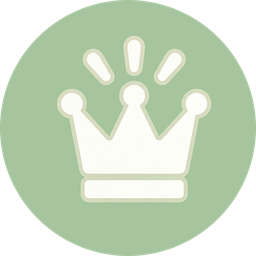
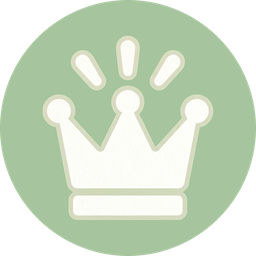
review: drop raw specks before sizing the glyph, so cond_inspired matches the set
rework_ui_icons sizes and centres a glyph by its bounding box. Gemini's 1024px prints carry a few stray paper-texture dots on the disc, and in inspired_crown_rays_1 they stretched that box, so the shipped crown came out at 65% of the frame instead of the set's 72% and sat 6px right and 8px high (10 of the 14 candidates were affected; the shrouded pick was not). generate_condition_icons_gemini.finish now drops glyph blobs under 0.02% of the frame before rework, the candidates were refinished from the saved raw images with --rework-only (no API calls), and cond_inspired.png is the refinished crown_rays_1. icons_r3_test now checks each glyph is 72% and centred, which fails on the old crown and passes on the new one. The script also no longer needs GEMINI_API_KEY for --pick, --contact, --rework-only or --list, and its docstring no longer claims Gemini has no seed parameter.

Changed region(s): [[0.1562, 0.125, 0.8438, 0.875]]

diff --git a/tfa-simultaneous-gemini-1/tools/generate_condition_icons_gemini.py b/tfa-simultaneous-gemini-1/tools/generate_condition_icons_gemini.py
@@ -12,9 +12,10 @@ This script runs both passes for conditions that do not have art yet, but makes
 several candidates per condition (a few symbol ideas, a few samples of each) so
 one can be picked by eye, and snaps the disc to the exact colour the existing
 icons of that category use, measured from the set itself. Nothing is written
-into "UI/UI Icons" until a candidate is picked with --pick. Gemini does not
-take a seed, so a rerun gives new candidates, not the same pixels; the raw
-images in <out>/raw are the record.
+into "UI/UI Icons" until a candidate is picked with --pick. No seed is set (and
+Gemini's image output does not repeat reliably even with one), so a rerun gives
+new candidates, not the same pixels; the raw images in <out>/raw are the record,
+and --rework-only redoes the finishing pass from them without any API call.
 
 Shipped picks: cond_shrouded = shrouded_hood_shadow_1, cond_inspired =
 inspired_crown_rays_1 (gemini-3-pro-image, 14 requests for 14 candidates).
@@ -50,11 +51,15 @@ import urllib.request
 
 import numpy as np
 from PIL import Image, ImageDraw
+from scipy import ndimage
 
 # Run-as-script puts tools/ on sys.path[0]; the rework pass lives in the repo-level tools/.
 HERE = os.path.dirname(os.path.abspath(__file__))
 sys.path.append(os.path.join(os.path.dirname(os.path.dirname(HERE)), "tools"))
 
+# generate_ability_icons_ai reads the key at import; only generating needs it,
+# so --pick, --contact, --rework-only and --list run without one.
+os.environ.setdefault("GEMINI_API_KEY", "")
 from generate_ability_icons_ai import ICONS, MODELS, REFS  # noqa: E402
 from generate_condition_icons_ai import SPECS, build_prompt  # noqa: E402
 import rework_ui_icons  # noqa: E402
@@ -179,13 +184,31 @@ def set_disc_color(icons_dir, category):
     return tuple(int(round(v)) for v in np.median(np.array(samples), axis=0))
 
 
+def _drop_specks(glyph):
+    """The glyph mask minus paper-texture specks: Gemini's 1024px prints carry a
+    few stray dots on the disc, and rework sizes and centres the glyph by its
+    bounding box, so one dot near the rim shrinks the symbol and pulls it off
+    centre (crown_rays_1 came out at 65% instead of 72%, 8px high). Anything
+    under 0.02% of the frame (about 200px at 1024) is a speck, not art; the
+    smallest real part, a crown ray, is over ten times that."""
+    lbl, n = ndimage.label(glyph)
+    if n < 2:
+        return glyph
+    sizes = np.bincount(lbl.ravel())
+    keep = sizes >= glyph.size * 0.0002
+    keep[0] = False
+    return keep[lbl] if keep.any() else glyph
+
+
 def finish(raw_img, disc_rgb):
     """rework_ui_icons.rework, with the disc painted the set's colour instead of
-    whatever shade the model happened to print."""
+    whatever shade the model happened to print, and specks dropped from the glyph."""
     orig = rework_ui_icons.analyse
 
     def analyse_snapped(img):
         info = orig(img)
+        if info is not None:
+            info["glyph"] = _drop_specks(info["glyph"])
         if info is not None and disc_rgb is not None:
             info["disc_color"] = np.array(disc_rgb, dtype=np.uint8)
         return info
@@ -327,6 +350,8 @@ def main():
     missing = [r for r in ref_paths if not os.path.exists(r)]
     if missing and not args.rework_only:
         sys.exit(f"missing style reference(s): {missing}  (use --icons-dir)")
+    if not KEY and not args.rework_only:
+        sys.exit("GEMINI_API_KEY is not set (only generating needs it)")
 
     log_path = os.path.join(args.out, "calls.json")
     log = []
